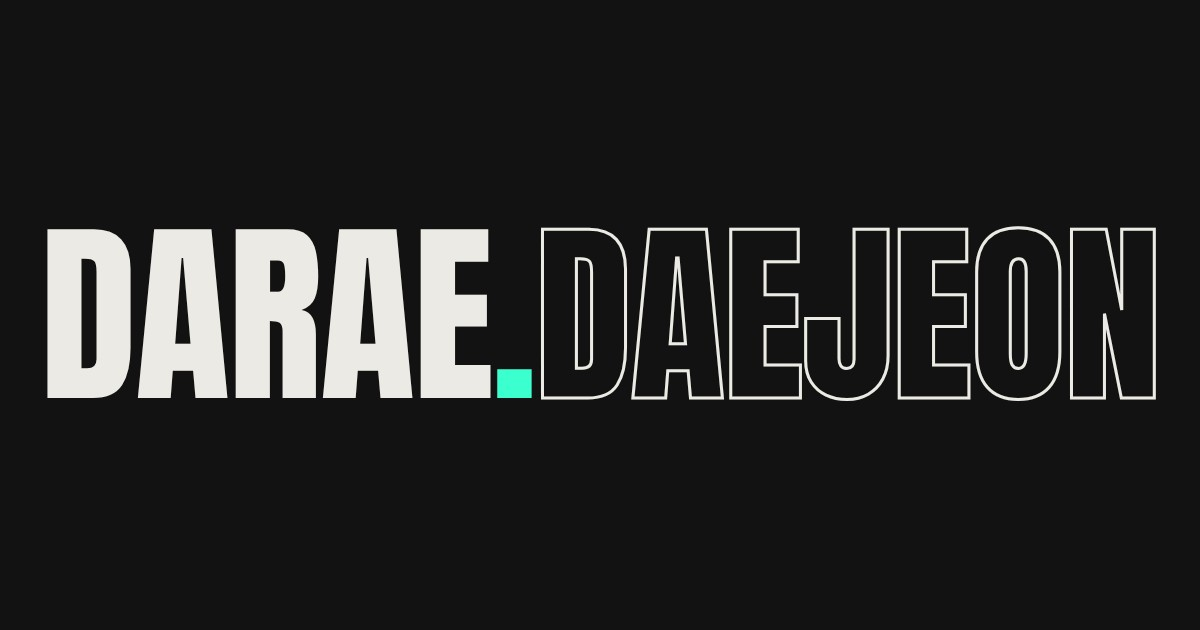
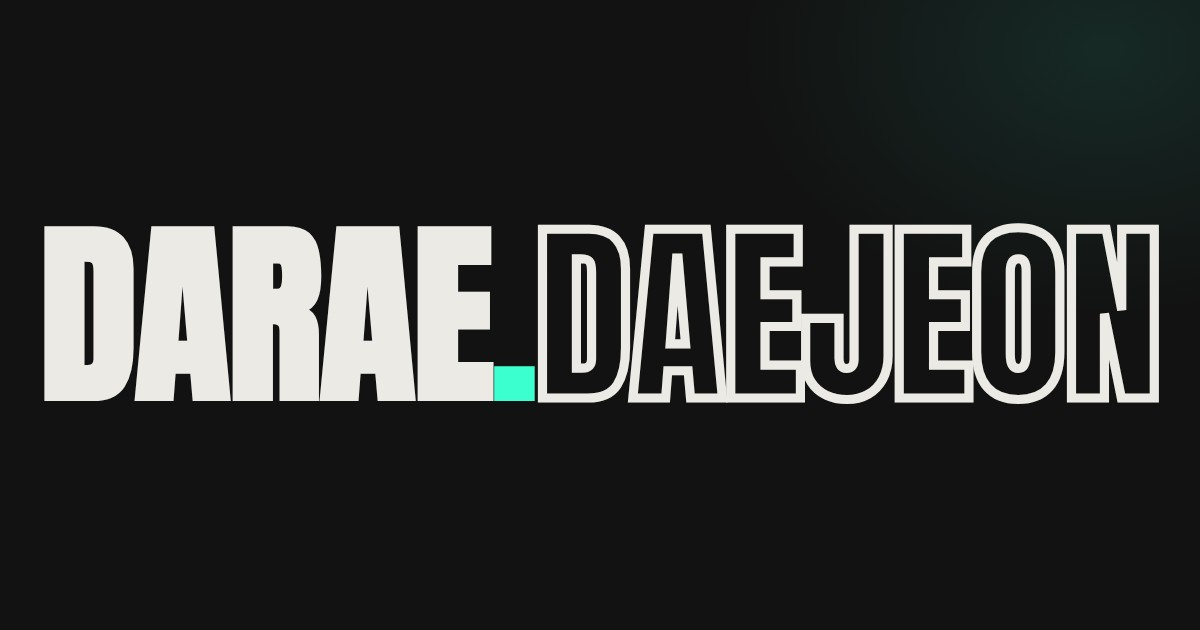
로고·하단 워드마크·공유 이미지 굵기 700, 공유 이미지에 민트 번짐 복원
Claude-Session: https://claude.ai/code/session_013m9DrTUF1o4nCJum9rHi1x

Changed region(s): [[0.0308, 0.3317, 0.9867, 0.6635]]

diff --git a/smk/index.html b/smk/index.html
@@ -10,7 +10,7 @@
 <meta property="og:url" content="https://darae-daejeon.github.io/smk/">
 <meta property="og:title" content="온라인 기술소개자료(SMK) | DARAE.DAEJEON">
 <meta property="og:description" content="다래 대전지사가 행사·뉴스레터를 위해 만든 온라인 기술소개자료(SMK) 모음. 기술명·연구자·분야로 바로 찾을 수 있습니다.">
-<meta property="og:image" content="https://darae-daejeon.github.io/assets/og.jpg?v=3">
+<meta property="og:image" content="https://darae-daejeon.github.io/assets/og.jpg?v=4">
 <meta property="og:image:width" content="1200">
 <meta property="og:image:height" content="630">
 <meta property="og:image:alt" content="DARAE.DAEJEON — 다래전략사업화센터 대전지사 기술사업화 아카이브">
@@ -20,7 +20,7 @@
 <link rel="preconnect" href="https://fonts.gstatic.com" crossorigin>
 <link href="https://fonts.googleapis.com/css2?family=Anton&family=JetBrains+Mono:wght@500;700&display=swap" rel="stylesheet">
 <link rel="stylesheet" href="https://cdn.jsdelivr.net/gh/orioncactus/pretendard@v1.3.9/dist/web/static/pretendard.min.css">
-<link rel="stylesheet" href="../assets/hub.css?v=20261112-20">
+<link rel="stylesheet" href="../assets/hub.css?v=20261112-21">
 <style>
 .page{padding:72px 0 40px}
 .page-head{display:grid;grid-template-columns:1fr auto;gap:32px;align-items:end;border-bottom:1px solid var(--line);padding-bottom:36px}
@@ -125,7 +125,7 @@
     <a class="addr mail" href="mailto:yhj@daraebiz.com"><span class="mono">Contact</span> yhj@daraebiz.com</a><a class="mono" href="../">Home ↑</a></div>
 </footer>
 
-<script src="../data.js?v=20261112-20"></script>
+<script src="../data.js?v=20261112-21"></script>
 <script>
 (function(){
   var D=window.DARAE, ROOT='../';
@@ -186,6 +186,6 @@
   render();
 })();
 </script>
-<script src="../assets/fit.js?v=20261112-20"></script>
+<script src="../assets/fit.js?v=20261112-21"></script>
 </body>
 </html>

diff --git a/index.html b/index.html
@@ -10,7 +10,7 @@
 <meta property="og:url" content="https://darae-daejeon.github.io/">
 <meta property="og:title" content="DARAE.DAEJEON | 다래 대전지사 기술사업화 아카이브">
 <meta property="og:description" content="다래전략사업화센터 대전지사가 해 온 기술사업화 기록. 기술설명회·파트너링 행사, 온라인 기술소개자료(SMK), 기술이전 뉴스레터, 이슈 리포트를 한곳에서 볼 수 있습니다.">
-<meta property="og:image" content="https://darae-daejeon.github.io/assets/og.jpg?v=3">
+<meta property="og:image" content="https://darae-daejeon.github.io/assets/og.jpg?v=4">
 <meta property="og:image:width" content="1200">
 <meta property="og:image:height" content="630">
 <meta property="og:image:alt" content="DARAE.DAEJEON — 다래전략사업화센터 대전지사 기술사업화 아카이브">
@@ -21,7 +21,7 @@
 <link href="https://fonts.googleapis.com/css2?family=Anton&family=JetBrains+Mono:wght@500;700&display=swap" rel="stylesheet">
 <link rel="stylesheet" href="https://cdn.jsdelivr.net/gh/orioncactus/pretendard@v1.3.9/dist/web/static/pretendard.min.css">
 <link rel="stylesheet" href="https://cdn.jsdelivr.net/npm/swiper@11.1.14/swiper-bundle.min.css">
-<link rel="stylesheet" href="assets/hub.css?v=20261112-20">
+<link rel="stylesheet" href="assets/hub.css?v=20261112-21">
 </head>
 <body data-live="comet-mint">
 
@@ -108,8 +108,8 @@
 </footer>
 
 <script src="https://cdn.jsdelivr.net/npm/swiper@11.1.14/swiper-bundle.min.js"></script>
-<script src="data.js?v=20261112-20"></script>
-<script src="assets/hub.js?v=20261112-20"></script>
-<script src="assets/fit.js?v=20261112-20"></script>
+<script src="data.js?v=20261112-21"></script>
+<script src="assets/hub.js?v=20261112-21"></script>
+<script src="assets/fit.js?v=20261112-21"></script>
 </body>
 </html>

diff --git a/assets/hub.css b/assets/hub.css
@@ -20,7 +20,7 @@ a{color:inherit;text-decoration:none}
 /* NAV */
 nav{position:sticky;top:0;z-index:20;background:rgba(18,18,18,.86);backdrop-filter:blur(10px);border-bottom:1px solid var(--line)}
 nav .wrap{display:flex;align-items:center;justify-content:space-between;height:64px}
-.logo{font-family:var(--display);font-size:28px;letter-spacing:.02em}
+.logo{font-family:var(--display);font-weight:700;font-size:28px;letter-spacing:.02em}
 .logo i{font-style:normal}
 .logo span{color:transparent;-webkit-text-stroke:1px var(--paper)}
 .navlinks{display:flex;gap:28px;align-items:center}
@@ -321,7 +321,7 @@ body.sm-lock{overflow:hidden}
 
 /* FOOTER */
 footer{border-top:1px solid var(--line);margin-top:80px;padding:40px 0 24px;overflow:hidden}
-.bigmark{font-family:var(--display);font-size:15.6vw;line-height:.85;letter-spacing:-.01em;color:var(--paper);white-space:nowrap;display:inline-block;padding:0 1vw;user-select:none}
+.bigmark{font-family:var(--display);font-weight:700;font-size:15.6vw;line-height:.85;letter-spacing:-.01em;color:var(--paper);white-space:nowrap;display:inline-block;padding:0 1vw;user-select:none}
 .bigmark i{font-style:normal}
 .bigmark span{color:transparent;-webkit-text-stroke:2px var(--paper)}
 .foot{display:flex;justify-content:space-between;gap:16px;flex-wrap:wrap;margin-top:28px;color:var(--paper-dim)}

diff --git a/stats/index.html b/stats/index.html
@@ -9,7 +9,7 @@
 <link rel="preconnect" href="https://fonts.gstatic.com" crossorigin>
 <link href="https://fonts.googleapis.com/css2?family=Anton&family=JetBrains+Mono:wght@500;700&display=swap" rel="stylesheet">
 <link rel="stylesheet" href="https://cdn.jsdelivr.net/gh/orioncactus/pretendard@v1.3.9/dist/web/static/pretendard.min.css">
-<link rel="stylesheet" href="../assets/hub.css?v=20261112-20">
+<link rel="stylesheet" href="../assets/hub.css?v=20261112-21">
 <style>
 .page{padding:64px 0 80px}
 .ph{display:flex;justify-content:space-between;align-items:end;gap:24px;flex-wrap:wrap;border-bottom:1px solid var(--line);padding-bottom:28px}
@@ -78,7 +78,7 @@ td a{color:var(--mint)}
     <a class="addr mail" href="mailto:yhj@daraebiz.com"><span class="mono">Contact</span> yhj@daraebiz.com</a><a class="mono" href="../">Home ↑</a></div>
 </footer>
 
-<script src="../data.js?v=20261112-20"></script>
+<script src="../data.js?v=20261112-21"></script>
 <script>
 (function(){
   var D=window.DARAE,T=D.types;
